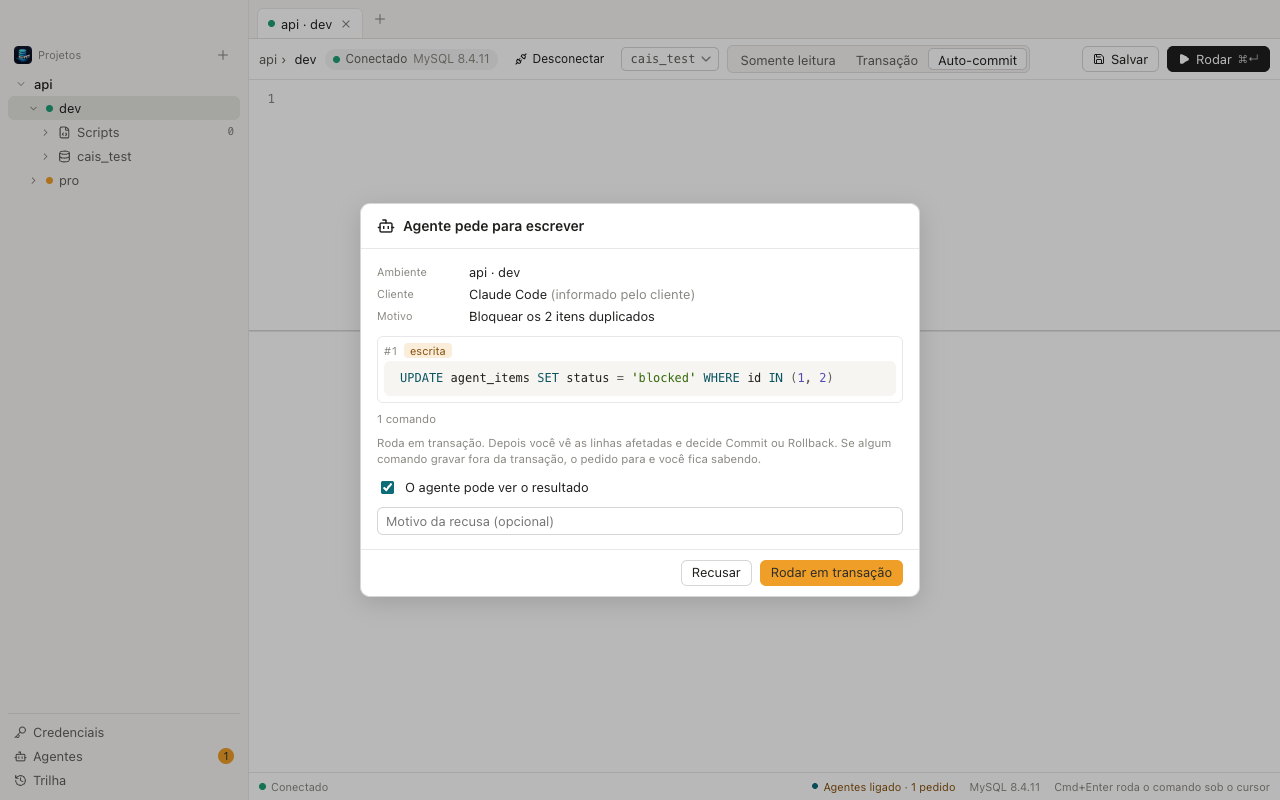
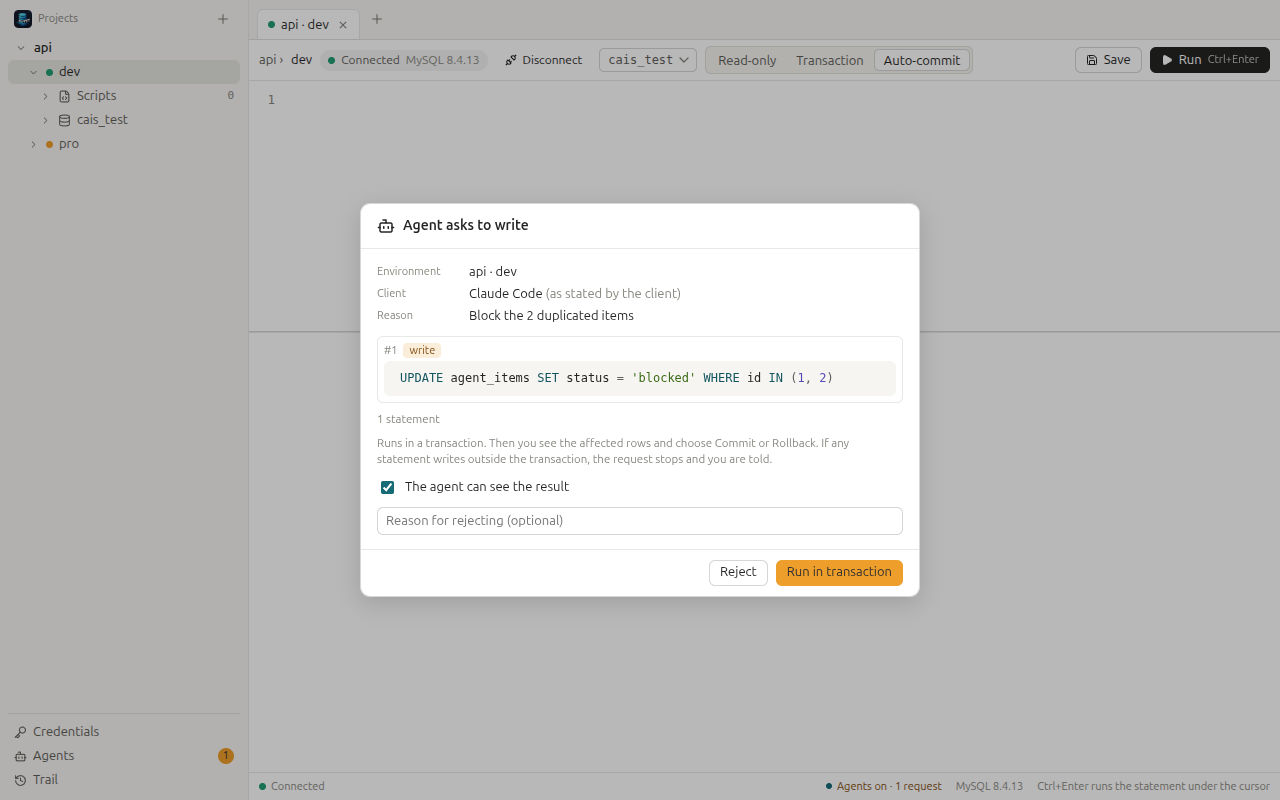
docs: retake screenshots with the English UI
Add tests/e2e/docs-images.spec.ts, which launches the app with CAIS_LOCALE=en
and takes the four screenshots used in docs/images (transaction, grid edit,
agent write approval, Trail), and replace the images with the English ones.
The spec waits for the environment form to load before picking an agent level
and clears the row other specs may leave in the shared database.

diff --git a/tests/e2e/docs-images.spec.ts b/tests/e2e/docs-images.spec.ts
@@ -1,0 +1,228 @@
+import { spawn } from 'node:child_process';
+import { rmSync } from 'node:fs';
+import { join } from 'node:path';
+import mysql from 'mysql2/promise';
+import { expect, test, type ElectronApplication, type Page } from '@playwright/test';
+import { launch, root, seedUserData, setSql, setTheme, shortTempDir, shots, testDb } from './helpers';
+
+// The screenshots of docs/images, taken with the English UI (CAIS_LOCALE=en). The other specs pin pt-BR, so these
+// scenes live here instead of flipping the suite. Each test builds one scene from scratch (own userData, own window)
+// and writes tests/e2e/screenshots/<name>-en.png; `docs/images/<name>.png` is a copy of that file:
+//   transaction-light-en.png      -> docs/images/transaction-light.png
+//   grid-edit-dark-en.png         -> docs/images/grid-edit-dark.png
+//   agent-write-approval-light-en.png -> docs/images/agent-write-approval-light.png
+//   trail-light-en.png            -> docs/images/trail-light.png
+// Everything is rolled back or rejected at the end: the shared test database is left as it was found.
+
+const cliFile = join(root, 'out', 'cli', 'cais.mjs');
+
+test.describe.configure({ mode: 'serial' });
+
+let userData: string;
+let app: ElectronApplication;
+let page: Page;
+
+async function open(extra: Record<string, string> = {}, seed: Parameters<typeof seedUserData>[1] = {}): Promise<void> {
+  userData = shortTempDir('cais-doc-');
+  seedUserData(userData, seed);
+  ({ app, page } = await launch(userData, { CAIS_LOCALE: 'en', ...extra }));
+  await expect(page.getByTestId('env-dev')).toBeVisible();
+  // the docs images are 1280 x 800 of window content, whatever the window manager does with the frame
+  await app.evaluate(({ BrowserWindow }) => BrowserWindow.getAllWindows()[0]!.setContentSize(1280, 800));
+  await page.waitForTimeout(300);
+}
+
+test.afterEach(async () => {
+  await app?.close().catch(() => undefined);
+  rmSync(userData, { recursive: true, force: true });
+});
+
+const dialog = (name: string) => page.getByRole('dialog', { name });
+const shot = (name: string) => page.screenshot({ path: join(shots, `${name}-en.png`) });
+
+function cli(socket: string, args: string[]): Promise<{ code: number; json: any }> {
+  const child = spawn(process.execPath, [cliFile, ...args], { env: { ...process.env, CAIS_SOCKET: socket } });
+  let stdout = '';
+  child.stdout.on('data', (c) => (stdout += c));
+  return new Promise((resolve) => {
+    child.on('close', (code) => {
+      let json: unknown;
+      try {
+        json = JSON.parse(stdout);
+      } catch {
+        json = undefined;
+      }
+      resolve({ code: code ?? -1, json });
+    });
+  });
+}
+
+test('transaction-light: a tab in Transaction mode with the Commit and Rollback bar', async () => {
+  await open();
+  await page.getByTestId('env-dev').click();
+  await expect(page.getByTestId('conn-chip')).toHaveAttribute('data-status', 'connected', { timeout: 20_000 });
+  await page.getByTestId('env-pro').click();
+  await expect(page.getByTestId('tab')).toHaveCount(2);
+  await expect(page.getByTestId('conn-chip')).toHaveAttribute('data-status', 'connected', { timeout: 20_000 });
+  await page.getByTestId('tab').first().click();
+  await page.getByRole('radio', { name: 'Transaction' }).click();
+
+  await setSql(page, "INSERT INTO people (name, email) VALUES ('Zed', 'zed@exemplo.com');");
+  await page.keyboard.press('ControlOrMeta+Enter');
+  await expect(page.getByTestId('affected')).toContainText('1 row affected');
+  const txbar = page.getByTestId('txbar');
+  await expect(txbar).toContainText('Transaction open · 1 statement');
+
+  await setSql(page, "SELECT id, name, email FROM people WHERE name = 'Zed';");
+  await page.keyboard.press('ControlOrMeta+Enter');
+  await expect(page.locator('[role=gridcell]', { hasText: 'zed@exemplo.com' })).toBeVisible();
+  await expect(txbar).toContainText('2 statements');
+
+  await setTheme(app, page, 'light');
+  await shot('transaction-light');
+
+  // leave nothing behind in the shared database
+  await txbar.getByRole('button', { name: 'Rollback' }).click();
+  await expect(txbar).toHaveCount(0);
+});
+
+test('grid-edit-dark: three pending changes in the results grid', async () => {
+  await open();
+  const cell = (r: number, col: string) => page.locator(`[role=gridcell][data-r="${r}"][data-col="${col}"]`);
+  const editor = page.getByTestId('cell-editor');
+  await page.getByTestId('env-dev').click();
+  await expect(page.getByTestId('conn-chip')).toHaveAttribute('data-status', 'connected', { timeout: 20_000 });
+  await setSql(page, 'SELECT id, name, note, price FROM grid_items ORDER BY id;');
+  await page.keyboard.press('ControlOrMeta+Enter');
+  await expect(cell(0, 'name')).toHaveText('Caneta', { timeout: 20_000 });
+
+  await cell(0, 'name').dblclick();
+  await editor.fill("Caneta d'ouro");
+  await editor.press('Enter');
+  await expect(editor).toHaveCount(0);
+  await cell(0, 'note').click({ button: 'right' });
+  await page.getByRole('menuitem', { name: 'Set to NULL' }).click();
+  await expect(cell(0, 'note')).toHaveText('NULL');
+  await cell(1, 'price').dblclick();
+  await editor.fill('12.50');
+  await editor.press('Enter');
+  await expect(editor).toHaveCount(0);
+  await expect(page.getByTestId('grid-edit-bar')).toContainText('3 changes in 2 rows');
+  await cell(1, 'price').click();
+
+  await setTheme(app, page, 'dark');
+  await shot('grid-edit-dark');
+  await page.getByTestId('edit-discard').click().catch(() => undefined);
+});
+
+test('agent-write-approval-light: the modal for a write requested by an agent', async () => {
+  const dir = shortTempDir('cais-docsock-');
+  const socket = join(dir, 'a.sock');
+  try {
+    await open({ CAIS_SOCKET: socket });
+    await page.getByTestId('agents-entry').click();
+    const panel = dialog('Agents');
+    await panel.getByTestId('agent-switch').click();
+    await expect(panel.getByTestId('agent-switch')).toHaveAttribute('aria-checked', 'true');
+    await panel.getByRole('button', { name: 'Close' }).first().click();
+    await page.getByTestId('env-dev').click();
+    await expect(page.getByTestId('agents-status')).toContainText('Agents on');
+    await expect(page.getByTestId('conn-chip')).toHaveAttribute('data-status', 'connected', { timeout: 20_000 });
+
+    const run = cli(socket, [
+      'llm', 'query', 'api/dev', '--write', '--sql', "UPDATE agent_items SET status = 'blocked' WHERE id IN (1, 2);",
+      '--reason', 'Block the 2 duplicated items', '--wait', '--client', 'Claude Code',
+    ]);
+    const modal = dialog('Agent asks to write');
+    await expect(modal).toBeVisible();
+    await expect(modal.getByRole('button', { name: 'Run in transaction' })).toBeEnabled();
+    await setTheme(app, page, 'light');
+    await shot('agent-write-approval-light');
+    await modal.getByRole('button', { name: 'Reject' }).click();
+    expect((await run).code).toBe(3);
+  } finally {
+    rmSync(dir, { recursive: true, force: true });
+  }
+});
+
+test('trail-light: the Trail screen with agent requests and configuration changes', async () => {
+  const dir = shortTempDir('cais-docsock-');
+  const socket = join(dir, 'a.sock');
+  const t = testDb();
+  const db = await mysql.createConnection({ host: t.host, port: t.port, user: t.user, password: t.password, database: t.database });
+  try {
+    // the database is shared with the other specs: start without the row they may have left
+    await db.query('DELETE FROM agent_items WHERE id = 4');
+    await open({ CAIS_SOCKET: socket });
+    const ask = (args: string[]) => cli(socket, ['llm', ...args]);
+    const reject = async () => {
+      await dialog('Agent asks to write').getByRole('button', { name: 'Reject' }).click();
+      await expect(page.getByRole('dialog')).toHaveCount(0);
+    };
+    const setLevel = async (env: 'dev' | 'pro', level: string) => {
+      await page.getByTestId(`env-${env}`).click({ button: 'right' });
+      await page.getByRole('menuitem', { name: 'Edit' }).click();
+      const registry = dialog('Registry');
+      // the form loads the environment after the dialog opens; picking a level before that is lost
+      await expect(registry.getByLabel('Environment name')).toHaveValue(env);
+      await registry.getByLabel('Agent access').selectOption(level);
+      await expect(registry.getByLabel('Agent access')).toHaveValue(level);
+      await registry.getByRole('button', { name: 'Save' }).click();
+      await expect(registry.getByText('Saved')).toBeVisible();
+      await registry.getByRole('button', { name: 'Close' }).first().click();
+      await expect(registry).toHaveCount(0);
+    };
+
+    await page.getByTestId('agents-entry').click();
+    const panel = dialog('Agents');
+    await panel.getByTestId('agent-switch').click();
+    await expect(panel.getByTestId('agent-switch')).toHaveAttribute('aria-checked', 'true');
+    await panel.getByRole('button', { name: 'Close' }).first().click();
+    await page.getByTestId('env-dev').click();
+    await expect(page.getByTestId('conn-chip')).toHaveAttribute('data-status', 'connected', { timeout: 20_000 });
+
+    // an agent saves a script; a production read is approved; production reads are freed; its write is rejected
+    const saved = await ask(['script-save', '--project', 'api', '--name', 'Duplicates by document', '--sql', 'SELECT national_id, COUNT(*) FROM companies GROUP BY 1', '--database', t.database]);
+    expect(saved.code).toBe(0);
+    expect((await ask(['script-save', '--project', 'api', '--name', 'duplicates by document', '--sql', 'SELECT 2'])).code).toBe(2);
+    await setLevel('dev', 'free-reads-writes');
+
+    const read = ask(['query', 'api/pro', '--sql', 'SELECT COUNT(*) AS n FROM agent_items', '--reason', 'Check today’s incident', '--wait', '--client', 'Claude Code']);
+    const readModal = dialog('Agent asks to read');
+    await expect(readModal.getByRole('button', { name: 'Approve', exact: true })).toBeEnabled();
+    await readModal.getByRole('button', { name: 'Approve', exact: true }).click();
+    expect((await read).code).toBe(0);
+
+    await setLevel('pro', 'free-reads');
+    expect((await ask(['query', 'api/pro', '--sql', 'SELECT COUNT(*) AS n FROM agent_items', '--reason', 'Check again'])).code).toBe(0);
+    const proWrite = await ask(['query', 'api/pro', '--write', '--sql', "UPDATE agent_items SET status = 'x' WHERE id = 3", '--reason', 'test']);
+    expect(proWrite.json.status).toBe('pending_approval');
+    await reject();
+    await setLevel('pro', 'approve-all');
+
+    // dev frees writes: an alert (no WHERE) and a possible foreign key still wait; a plain INSERT commits by itself
+    const waiting = ask(['query', 'api/dev', '--write', '--sql', "UPDATE agent_items SET status = 'auto'", '--reason', 'level test', '--wait', '--client', 'Claude Code']);
+    await expect(dialog('Agent asks to write')).toBeVisible();
+    await reject();
+    expect((await waiting).code).toBe(3);
+    const upd = await ask(['query', 'api/dev', '--write', '--sql', "UPDATE agent_items SET status = 'auto' WHERE id = 3", '--reason', 'level test', '--client', 'Claude Code']);
+    expect(upd.json.status).toBe('pending_approval');
+    await reject();
+    const ins = await ask(['query', 'api/dev', '--write', '--sql', "INSERT INTO agent_items VALUES (4, 'auto', 'test')", '--reason', 'level test', '--client', 'Claude Code']);
+    expect(ins.json).toMatchObject({ status: 'committed', auto_commit: true });
+
+    await page.getByTestId('trail-entry').click();
+    const trail = dialog('Trail');
+    await expect(trail.getByTestId('trail-row').first()).toContainText('committed (automatic)');
+    await trail.getByTestId('trail-row').first().click();
+    await expect(trail.getByTestId('trail-detail')).toContainText('automatic (environment level)');
+    await setTheme(app, page, 'light');
+    await shot('trail-light');
+    await trail.getByRole('button', { name: 'Close' }).first().click();
+  } finally {
+    await db.query('DELETE FROM agent_items WHERE id = 4').catch(() => undefined);
+    await db.query("UPDATE agent_items SET status = 'active'").catch(() => undefined);
+    await db.end().catch(() => undefined);
+    rmSync(dir, { recursive: true, force: true });
+  }
+});
